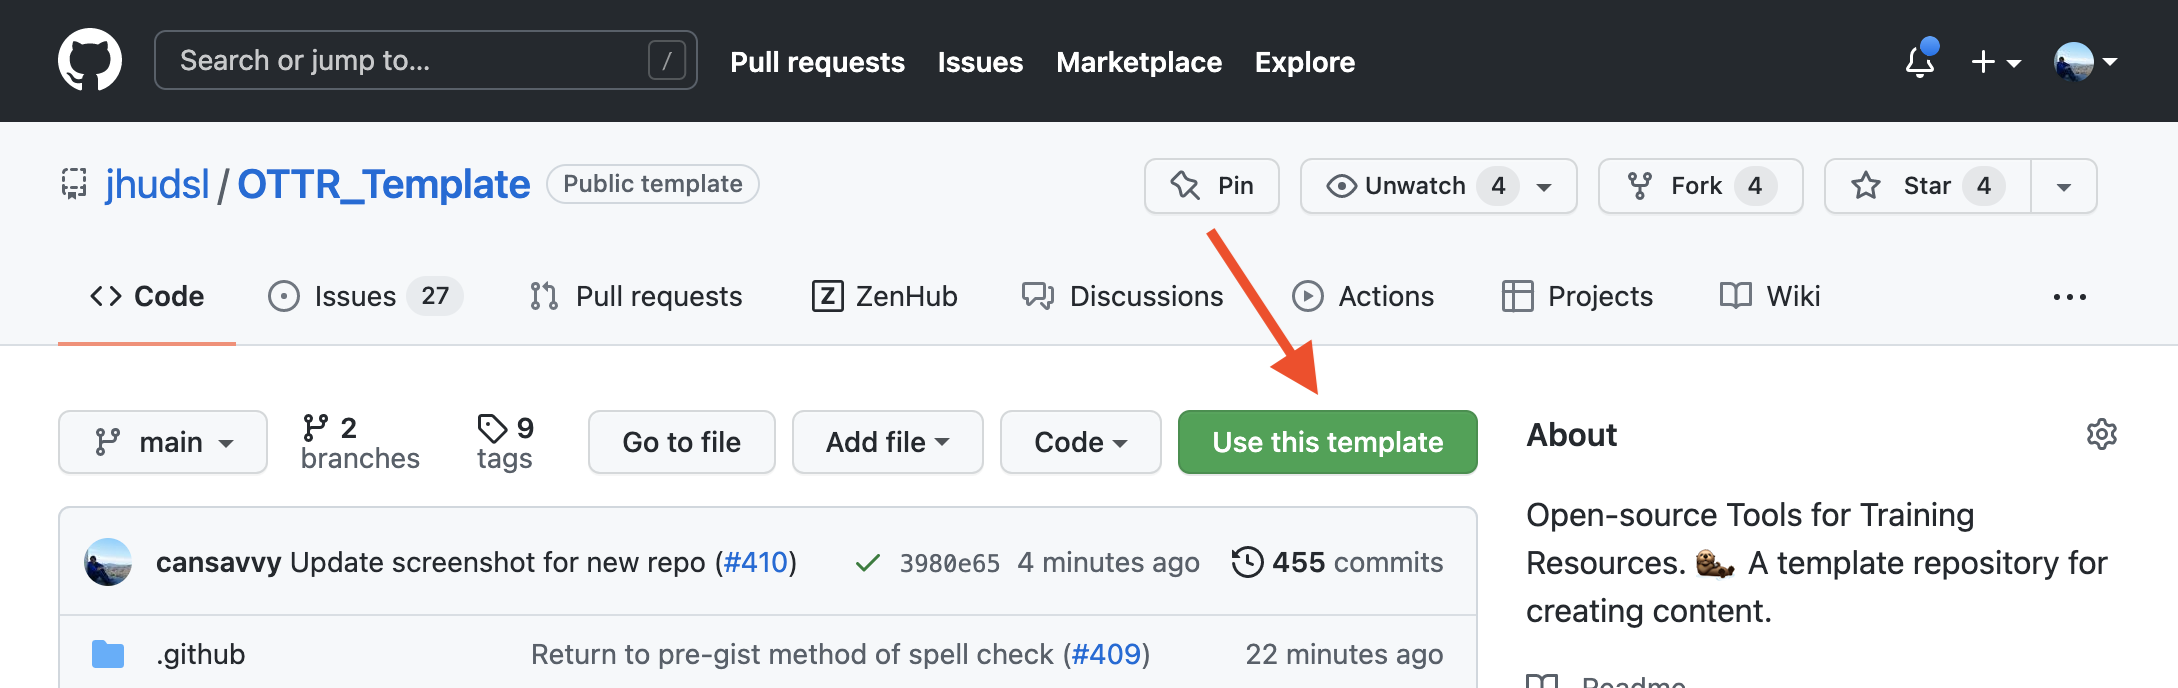
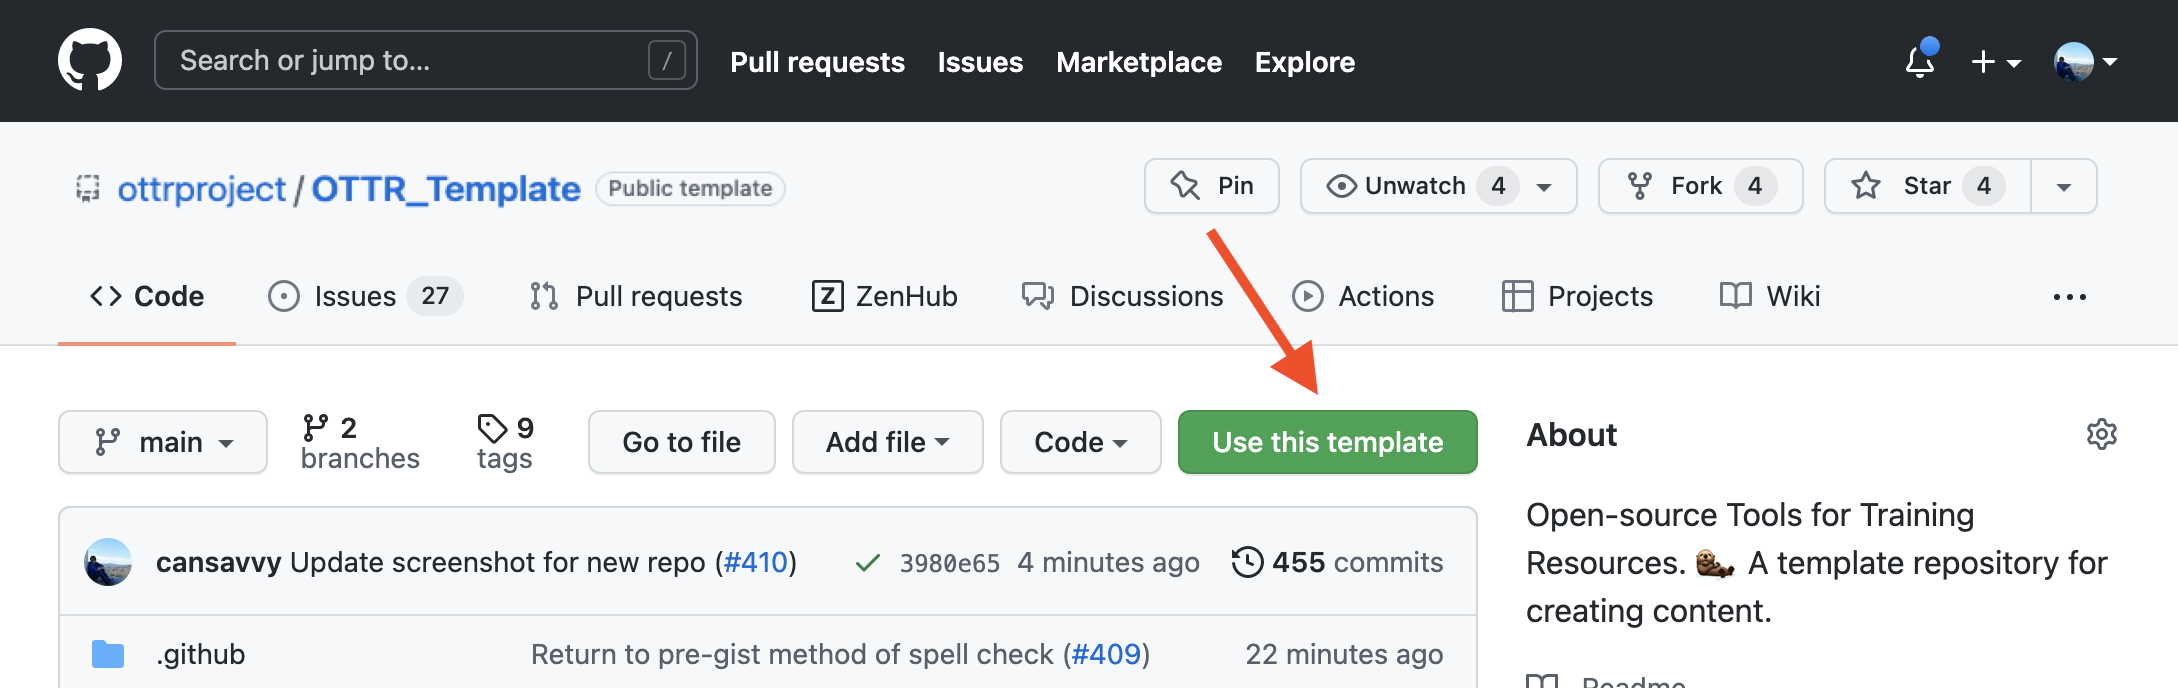
fix chapter links

Changed region(s): [[0.0312, 0.2442, 0.3747, 0.3052]]

diff --git a/styles.css b/styles.css
@@ -155,6 +155,30 @@
   line-height: 1.35;
 }
 
+.chapter-links {
+  display: flex;
+  flex-wrap: wrap;
+  gap: 0.5rem;
+  margin-top: 1rem;
+}
+
+.chapter-links a {
+  padding: 0.35rem 0.65rem;
+  color: var(--ottr-text);
+  text-decoration: none;
+  background: white;
+  border: 1px solid var(--ottr-border);
+  border-radius: 8px;
+}
+
+.chapter-links a:hover,
+.chapter-links a:focus {
+  color: var(--ottr-text);
+  text-decoration: none;
+  background: var(--ottr-soft);
+  border-color: var(--ottr-accent);
+}
+
 /* Template path sections. */
 .path-header,
 .setup-checklist {
@@ -175,19 +199,8 @@
   margin-bottom: 0.45rem;
 }
 
-h3.toc-anchor-heading {
-  height: 0;
-  margin: 0;
-  overflow: hidden;
-  scroll-margin-top: 7rem;
-}
-
-h3.toc-anchor-heading .anchorjs-link {
-  display: none;
-}
-
 .template-choice {
-  margin: 1rem 0 1.5rem;
+  margin: 0.4rem 0 1.5rem;
   border: 1px solid var(--ottr-border);
   border-radius: 8px;
   overflow: hidden;
@@ -195,7 +208,7 @@ h3.toc-anchor-heading .anchorjs-link {
 
 .template-choice summary {
   display: grid;
-  grid-template-columns: max-content minmax(10rem, 1fr) max-content;
+  grid-template-columns: minmax(10rem, 1fr) max-content;
   gap: 0.25rem 0.75rem;
   align-items: center;
   padding: 0.85rem 1rem;
@@ -214,7 +227,6 @@ h3.toc-anchor-heading .anchorjs-link {
 }
 
 .template-choice summary::after {
-  grid-row: span 2;
   color: var(--ottr-text);
   content: "Show";
   font-size: 0.85rem;
@@ -223,23 +235,6 @@ h3.toc-anchor-heading .anchorjs-link {
 
 .template-choice[open] summary::after {
   content: "Hide";
-}
-
-.choice-badge {
-  grid-row: span 2;
-  width: fit-content;
-  padding: 0.15rem 0.5rem;
-  color: white;
-  font-size: 0.78rem;
-  font-weight: 700;
-  background: var(--ottr-accent);
-  border-radius: 999px;
-}
-
-.choice-title {
-  color: var(--ottr-text);
-  font-size: 1.05rem;
-  font-weight: 700;
 }
 
 .choice-note {
